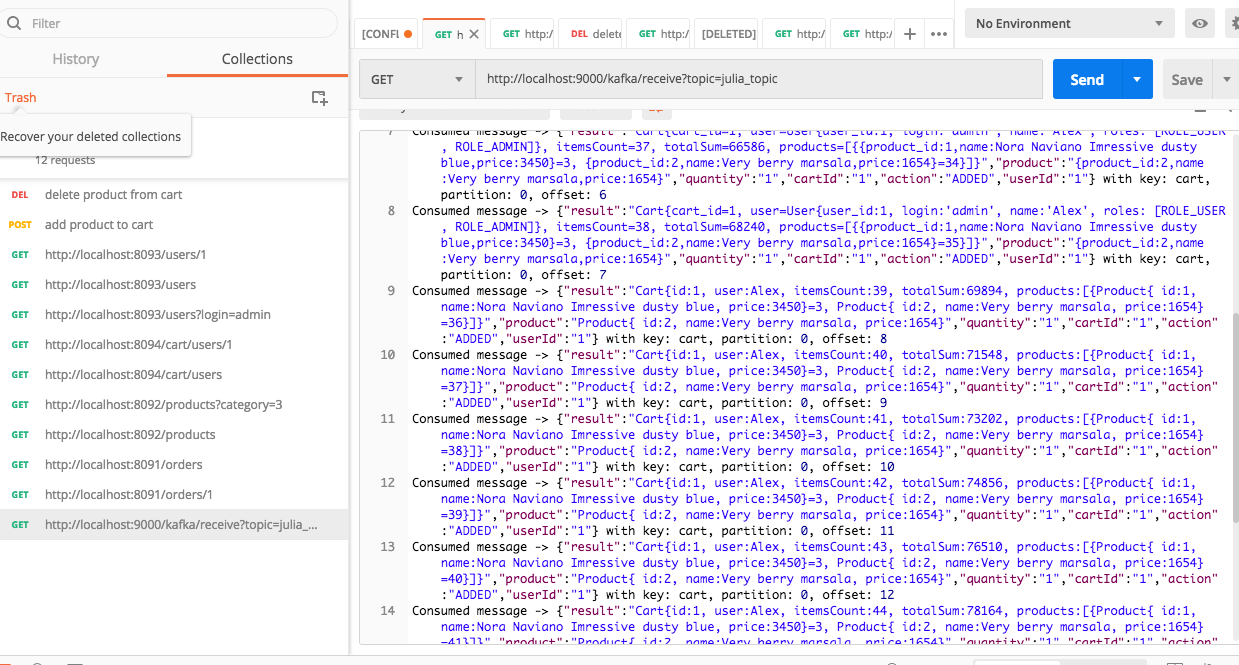
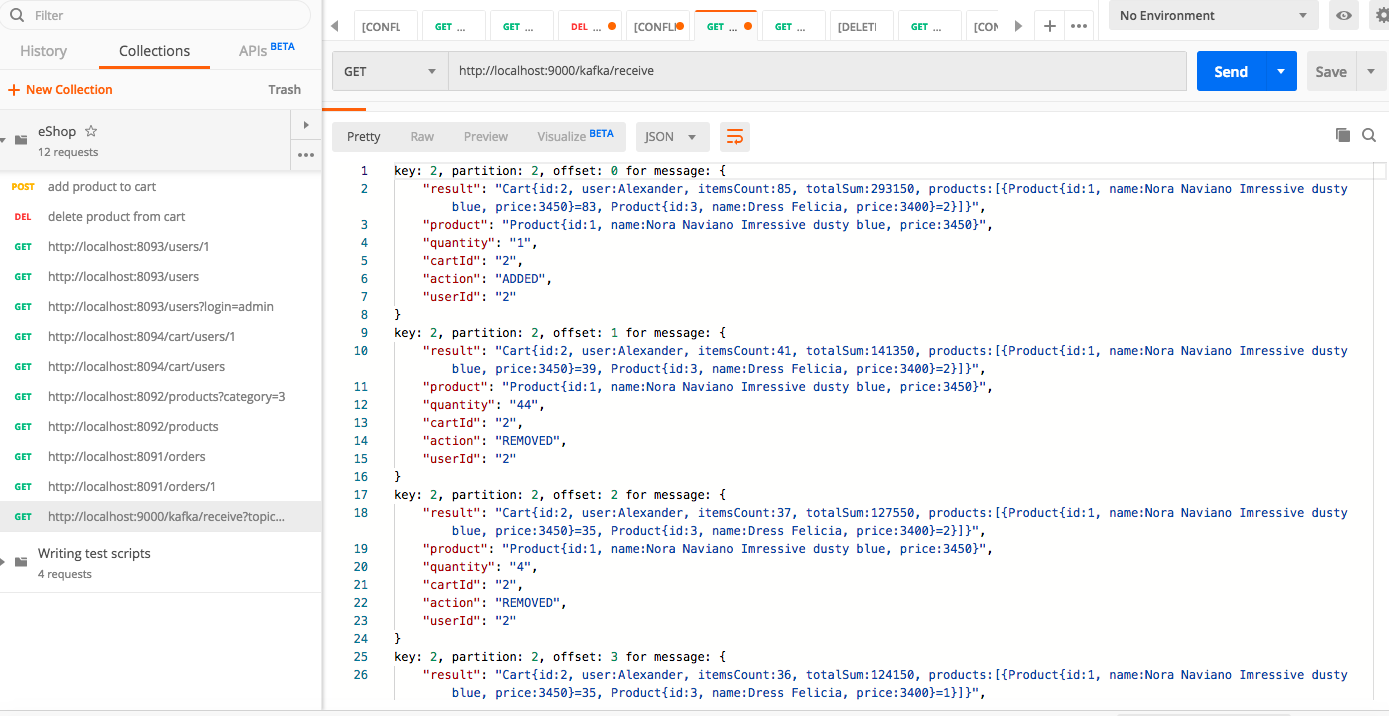
Kafka Producer/Consumer v3 based on @KafkaListener, KafkaConfiguration

diff --git a/kafka-service/src/main/java/com/gmail/kramarenko104/kafka/controllers/KafkaController.java b/kafka-service/src/main/java/com/gmail/kramarenko104/kafka/controllers/KafkaController.java
@@ -1,14 +1,20 @@
 package com.gmail.kramarenko104.kafka.controllers;
 
-import com.gmail.kramarenko104.kafka.services.KafkaMyConsumer;
-import com.gmail.kramarenko104.kafka.services.KafkaMyProducer;
+import org.apache.kafka.clients.consumer.ConsumerRecord;
 import org.slf4j.Logger;
 import org.slf4j.LoggerFactory;
 import org.springframework.beans.factory.annotation.Autowired;
+import org.springframework.beans.factory.annotation.Value;
 import org.springframework.http.HttpEntity;
 import org.springframework.http.HttpStatus;
 import org.springframework.http.ResponseEntity;
+import org.springframework.kafka.annotation.KafkaListener;
+import org.springframework.kafka.core.KafkaTemplate;
 import org.springframework.web.bind.annotation.*;
+import javax.websocket.server.PathParam;
+import java.util.ArrayList;
+import java.util.List;
+import java.util.stream.Collectors;
 
 @RestController
 @RequestMapping(value = "/kafka")
@@ -16,30 +22,40 @@ public class KafkaController {
 
     private static final Logger logger = LoggerFactory.getLogger(KafkaController.class);
 
-    private final KafkaMyProducer producer;
-
-    private final KafkaMyConsumer consumer;
-
     @Autowired
-    public KafkaController(KafkaMyProducer producer, KafkaMyConsumer consumer) {
-        this.producer = producer;
-        this.consumer = consumer;
+    private KafkaTemplate kafkaTemplate;
+
+    @Value("${spring.kafka.topic}")
+    private String topicName;
+
+    private List<String> kafkaMessages;
+
+    public KafkaController() {
+        kafkaMessages = new ArrayList<>();
     }
 
     @PostMapping("/send")
-    public HttpEntity<String> sendMessageToKafkaTopic(@RequestParam String key,
+    public HttpEntity<String> sendMessageToKafkaTopic(@PathParam("key") String key,
                                                       @RequestBody String message) {
-        producer.configure();
-        producer.sendMessage(key,  message);
-        logger.debug("[eshop] Message sent to Kafka: " + message);
+        logger.debug("[eshop] #### Sending Message -> topic:'{}', key:{}, message:{}", topicName, key, message);
+        kafkaTemplate.send(topicName, key, message);
         return new ResponseEntity<String>(message, HttpStatus.OK);
     }
 
     @GetMapping("/receive")
-    public HttpEntity<String> receiveMessageFromKafkaTopic(@RequestParam String topic) {
-        consumer.configure();
-        String messageFromKafka = consumer.receiveMessage();
-        logger.debug("[eshop] Message got from Kafka: " + messageFromKafka);
-        return new ResponseEntity<String>(messageFromKafka, HttpStatus.OK);
+    // run command before GET request 'http://localhost:9000/kafka/receive' to see topic from the beginning (stop kafka-service before this):
+    // kafka-consumer-groups --bootstrap-server localhost:9092 --group test --reset-offsets --to-earliest --execute -topic julia_topic
+    public HttpEntity<String> getKafkaMessages() {
+        String result = kafkaMessages.stream().collect(Collectors.joining("\n"));
+        logger.debug("[eshop] #### Consumed Message -> " + result);
+        return new ResponseEntity<>(result, HttpStatus.OK);
+    }
+
+    @KafkaListener(topics = "${spring.kafka.topic}", groupId = "${spring.kafka.consumer.group-id}",
+            containerFactory = "kafkaListenerContainerFactory")
+    public void listenKafkaTopic(ConsumerRecord<String, String> record) {
+        String message = String.format("key: %s, partition: %s, offset: %s for message: %s",
+                record.key(), record.partition(), record.offset(), record.value());
+        kafkaMessages.add(message);
     }
 }

diff --git a/kafka-service/src/main/java/com/gmail/kramarenko104/kafka/configs/KafkaConfiguration.java b/kafka-service/src/main/java/com/gmail/kramarenko104/kafka/configs/KafkaConfiguration.java
@@ -1,0 +1,69 @@
+package com.gmail.kramarenko104.kafka.configs;
+
+import org.apache.kafka.clients.consumer.ConsumerConfig;
+import org.apache.kafka.clients.producer.ProducerConfig;
+import org.apache.kafka.common.serialization.StringDeserializer;
+import org.apache.kafka.common.serialization.StringSerializer;
+import org.springframework.beans.factory.annotation.Value;
+import org.springframework.context.annotation.Bean;
+import org.springframework.context.annotation.Configuration;
+import org.springframework.kafka.annotation.EnableKafka;
+import org.springframework.kafka.config.ConcurrentKafkaListenerContainerFactory;
+import org.springframework.kafka.config.KafkaListenerContainerFactory;
+import org.springframework.kafka.core.*;
+import org.springframework.kafka.listener.ConcurrentMessageListenerContainer;
+import java.util.HashMap;
+import java.util.Map;
+
+@Configuration
+@EnableKafka
+public class KafkaConfiguration {
+
+    @Value("${spring.kafka.bootstrap-servers}")
+    private String kafkaBootstrapServers;
+
+    @Value("${spring.kafka.consumer.group-id}")
+    private String groupId;
+
+    @Bean
+    public KafkaTemplate<String, String> kafkaTemplate() {
+        return new KafkaTemplate<>(producerFactory());
+    }
+
+    @Bean
+    public ProducerFactory<String, String> producerFactory() {
+        Map<String, Object> config = new HashMap<>();
+        config.put(ProducerConfig.BOOTSTRAP_SERVERS_CONFIG, kafkaBootstrapServers);
+        config.put(ProducerConfig.KEY_SERIALIZER_CLASS_CONFIG, StringSerializer.class);
+        config.put(ProducerConfig.VALUE_SERIALIZER_CLASS_CONFIG, StringSerializer.class);
+        // create safe producer
+        config.put(ProducerConfig.ENABLE_IDEMPOTENCE_CONFIG, "true"); // prevent duplicates
+        config.put(ProducerConfig.ACKS_CONFIG, "all");  // acknowledge from leader and from replicas
+        config.put(ProducerConfig.RETRIES_CONFIG, Integer.toString(Integer.MAX_VALUE)) ;   // after RETRIES unsuccessful retries sending becomes failed
+        // increase producer speed
+        config.put(ProducerConfig.LINGER_MS_CONFIG, "10"); // every 10 millisecond batch of records will be sent
+        config.put(ProducerConfig.BATCH_SIZE_CONFIG, Integer.toString(32*1024)); // batch should be = 32 Kb
+        config.put(ProducerConfig.COMPRESSION_TYPE_CONFIG, "snappy");
+        return new DefaultKafkaProducerFactory<>(config);
+    }
+
+        @Bean
+        public ConsumerFactory<String, String> consumerFactory() {
+            Map<String, Object> config = new HashMap<>();
+            config.put(ConsumerConfig.BOOTSTRAP_SERVERS_CONFIG, kafkaBootstrapServers);
+            config.put(ConsumerConfig.GROUP_ID_CONFIG, groupId);
+            config.put(ConsumerConfig.KEY_DESERIALIZER_CLASS_CONFIG, StringDeserializer.class);
+            config.put(ConsumerConfig.VALUE_DESERIALIZER_CLASS_CONFIG, StringDeserializer.class);
+            config.put(ConsumerConfig.AUTO_OFFSET_RESET_CONFIG, "earliest");
+            config.put(ConsumerConfig.ENABLE_AUTO_COMMIT_CONFIG, "true");
+            return new DefaultKafkaConsumerFactory<>(config);
+        }
+
+    @Bean
+    public KafkaListenerContainerFactory<ConcurrentMessageListenerContainer<String, String>> kafkaListenerContainerFactory() {
+        ConcurrentKafkaListenerContainerFactory<String, String> factory = new ConcurrentKafkaListenerContainerFactory<>();
+        factory.setConsumerFactory(consumerFactory());
+        return factory;
+    }
+
+}

diff --git a/cart-service/src/main/java/com/gmail/kramarenko104/cartservice/services/CartServiceImpl.java b/cart-service/src/main/java/com/gmail/kramarenko104/cartservice/services/CartServiceImpl.java
@@ -93,7 +93,8 @@ public class CartServiceImpl implements CartService {
         headers.setAccept(Arrays.asList(MediaType.APPLICATION_JSON));
         HttpEntity<String> entity = new HttpEntity<String>(jsonMessage, headers);
         try {
-            String response = restTemplate.exchange("http://kafka-service/kafka/send?key=cart", HttpMethod.POST, entity, String.class).getBody();
+            // Messages with cart's actions are sent to Kafka topic with key=userId to collect all info concerning the same user in the same partition
+            String response = restTemplate.exchange("http://kafka-service/kafka/send?key="+userId, HttpMethod.POST, entity, String.class).getBody();
             logger.debug("[eshop] got RESPONSE from Kafka: " + response);
         } catch (HttpClientErrorException e) {
             logger.debug("[eshop] got CLIENT exception: " + e.getResponseBodyAsString());

diff --git a/README.md b/README.md
@@ -20,7 +20,10 @@ Spring Boot + Spring Cloud App + Kafka
 - Turbine dashboard runs on port 7777. Run it: http://localhost:7777/hystrix => http://localhost:7777/turbine.stream?cluster=default
 - Hystrix, LoadBalancer are enabled for cart-service, order-service that call other microservices
 - Info concerning actions with user's cart (add/remove product) is sent to Kafka
-- Check Kafka Consumer work: Get method, http://localhost:9000/kafka/receive?topic=julia_topic (see screenshots/ Check_Kafka_Consumer_Group_from_Postman.png)
+- Check Kafka Consumer work: Get method, http://localhost:9000/kafka/receive (see screenshots/Check_Kafka_Consumer_Group_from_Postman.png)
+  (run command before Get request to see topic from beginning, stop kafka-service before this:
+  kafka-consumer-groups --bootstrap-server localhost:9092 --group test --reset-offsets --to-earliest --execute -topic julia_topic)
+- Messages with cart's actions are sent to Kafka topic with key=userId to collect all info concerning the same user in the same partition
 - REST requests for cart-service:
 - - add {quantity} of product with {productId} to cart for user with {userId}:
 POST localhost:8094/cart/users/{userId}/products/{productId}?quantity={quantity}
